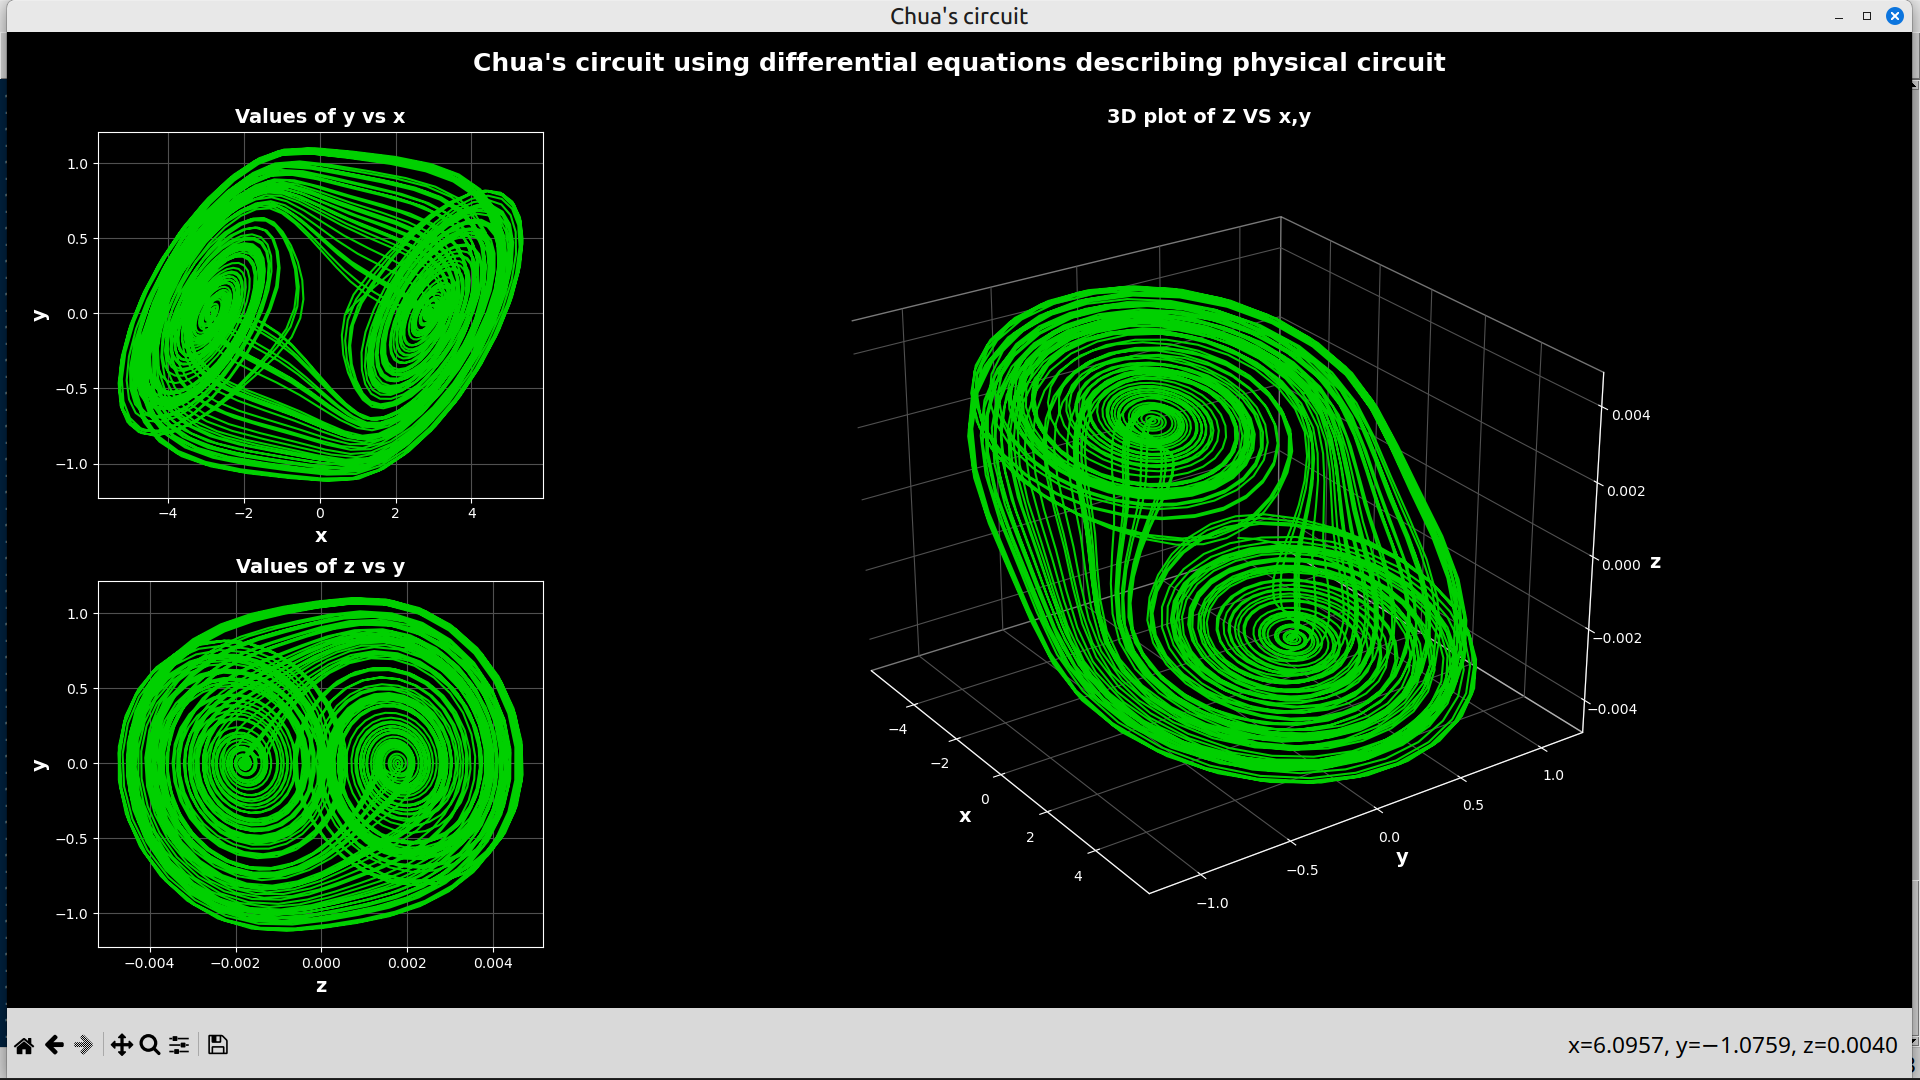
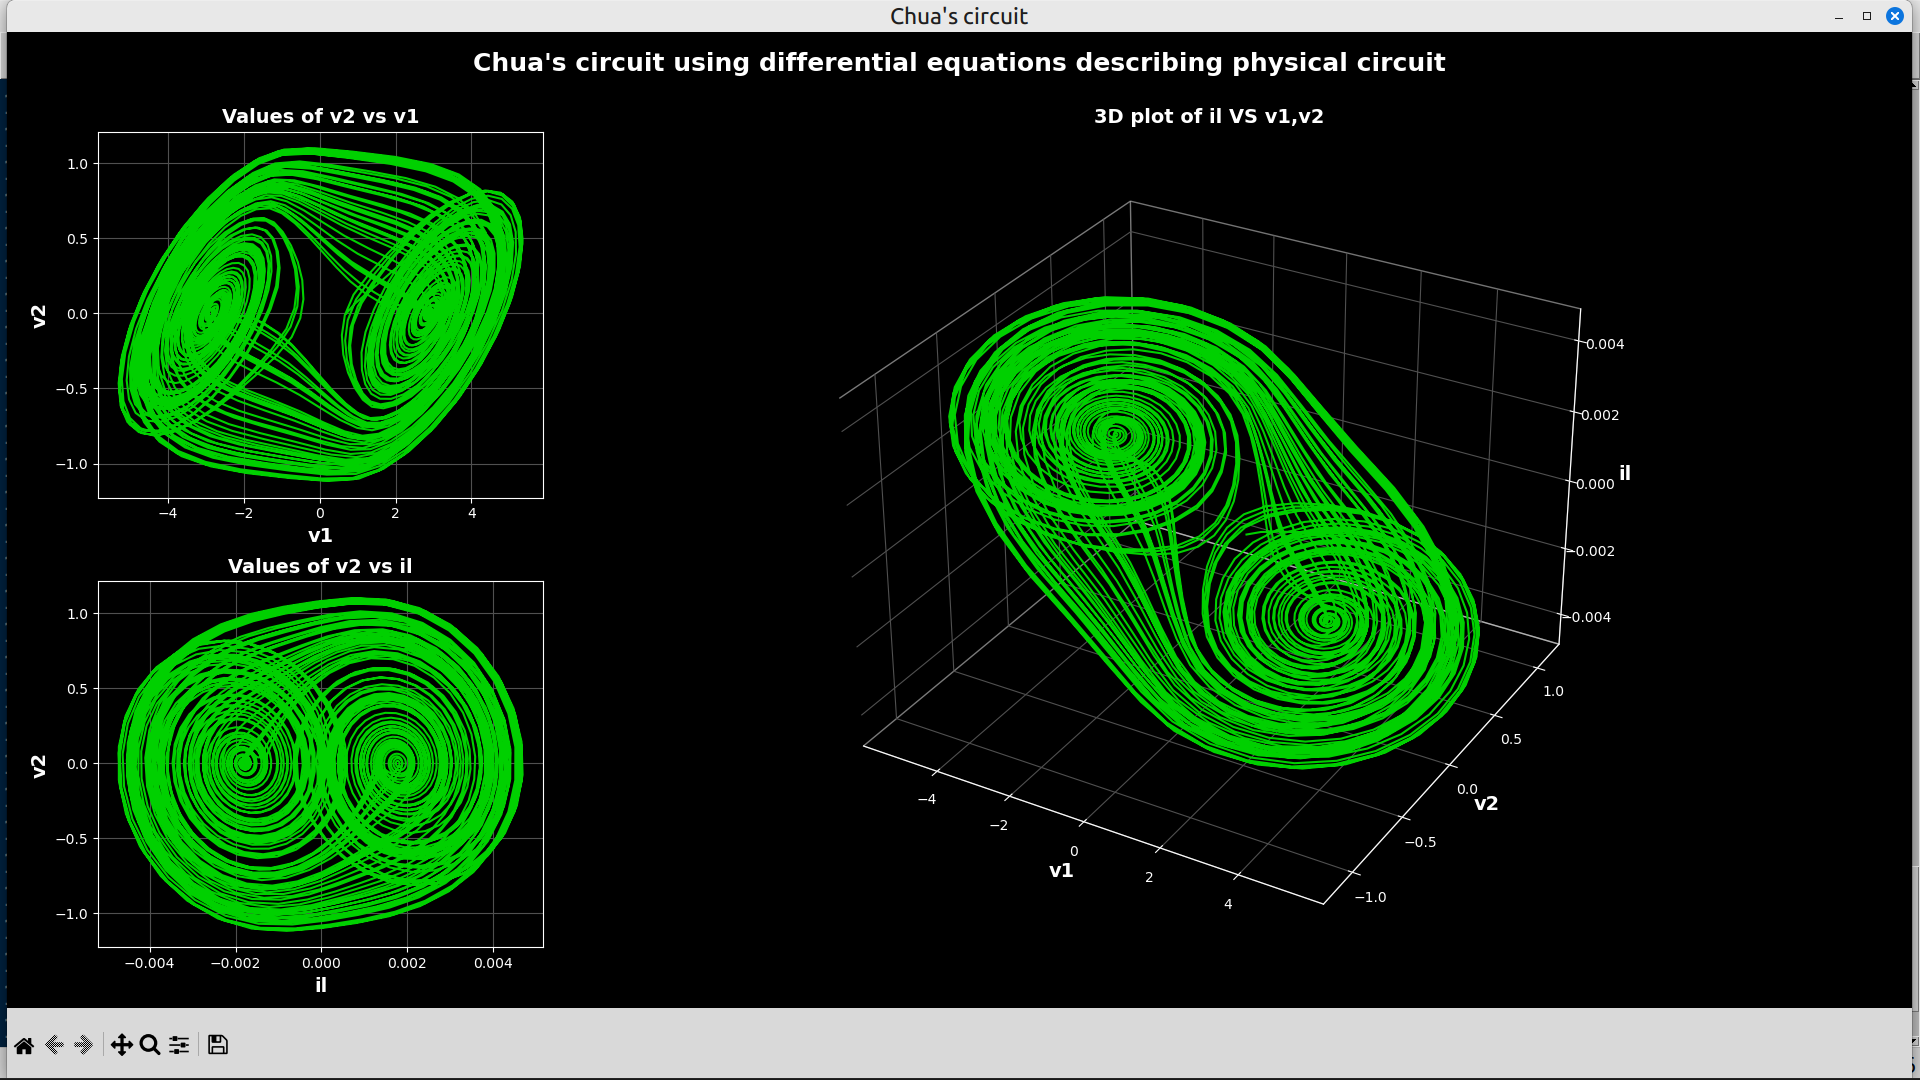
Add files via upload

diff --git a/chua_physical4.py b/chua_physical4.py
@@ -132,7 +132,7 @@ if result.success == False:
     quit()
 
 # unpack values from result object
-x_values ,y_values ,z_values = result.y
+v1, v2, il = result.y
 
 # **** plotting using matplotlib ***************
 
@@ -154,40 +154,40 @@ plt.suptitle(title, fontweight = "bold", size = text_size + 4)
 
 plt.rcParams['grid.color'] = color_grid
 
-# add subplot for x-y values
+# add subplot for v2 vs v1 values
 ax = fig.add_subplot(gs[0])
 ax.grid(linestyle='-')
 ax.set_facecolor(color_plot_background)
-ax.set_xlabel("x", size = text_size, fontweight = "bold")
-ax.set_ylabel("y", size = text_size, fontweight = "bold")
-ax.plot(x_values,y_values, color = colors_plot[0])
-ax.set_title("Values of y vs x", fontweight = "bold", size = text_size)
+ax.set_xlabel("v1", size = text_size, fontweight = "bold")
+ax.set_ylabel("v2", size = text_size, fontweight = "bold")
+ax.plot(v1,v2, color = colors_plot[0])
+ax.set_title("Values of v2 vs v1", fontweight = "bold", size = text_size)
 
-# add subplot for z-y values
+# add subplot for v2 vs il values
 ax = fig.add_subplot(gs[2])
 ax.grid(linestyle='-')
 ax.set_facecolor(color_plot_background)
-ax.set_xlabel("z", size = text_size, fontweight = "bold")
-ax.set_ylabel("y", size = text_size, fontweight = "bold")
-ax.plot(z_values, y_values, color = colors_plot[1])
-ax.set_title("Values of z vs y", fontweight = "bold", size = text_size)
+ax.set_xlabel("il", size = text_size, fontweight = "bold")
+ax.set_ylabel("v2", size = text_size, fontweight = "bold")
+ax.plot(il, v2, color = colors_plot[1])
+ax.set_title("Values of v2 vs il", fontweight = "bold", size = text_size)
 
 # for 3D plot: calculate focal length out of field of view
 focal_len = 1 / np.tan(np.radians(fov_3d_deg / 2))
 #print(f"focal length for 3D plot: {focal_len:.8} for a field of view of {fov_3d_deg}°")
 
-# add subplot for 3D scatter plot of x,y,z
+# add subplot for 3D scatter plot of v1,v2,il
 ax = fig.add_subplot(gs[:,1],projection = "3d")
 ax.set_proj_type('persp', focal_length=focal_len)
-ax.plot(x_values, y_values, z_values, color = colors_plot[2])
+ax.plot(v1, v2, il, color = colors_plot[2])
 ax.set_facecolor(color_plot_background)
-ax.set_xlabel("x", size = text_size, fontweight = "bold")
-ax.set_ylabel("y", size = text_size, fontweight = "bold")
-ax.set_zlabel("z", size = text_size, fontweight = "bold")
+ax.set_xlabel("v1", size = text_size, fontweight = "bold")
+ax.set_ylabel("v2", size = text_size, fontweight = "bold")
+ax.set_zlabel("il", size = text_size, fontweight = "bold")
 ax.xaxis.pane.fill = False
 ax.yaxis.pane.fill = False
 ax.zaxis.pane.fill = False
-ax.set_title("3D plot of Z VS x,y", fontweight = "bold", size = text_size)
+ax.set_title("3D plot of il VS v1,v2", fontweight = "bold", size = text_size)
 
 # define space between subplots
 plt.subplots_adjust(wspace = 0, hspace = 0.229, left = 0.048, right = 0.981, bottom = 0.062, top = 0.898)
